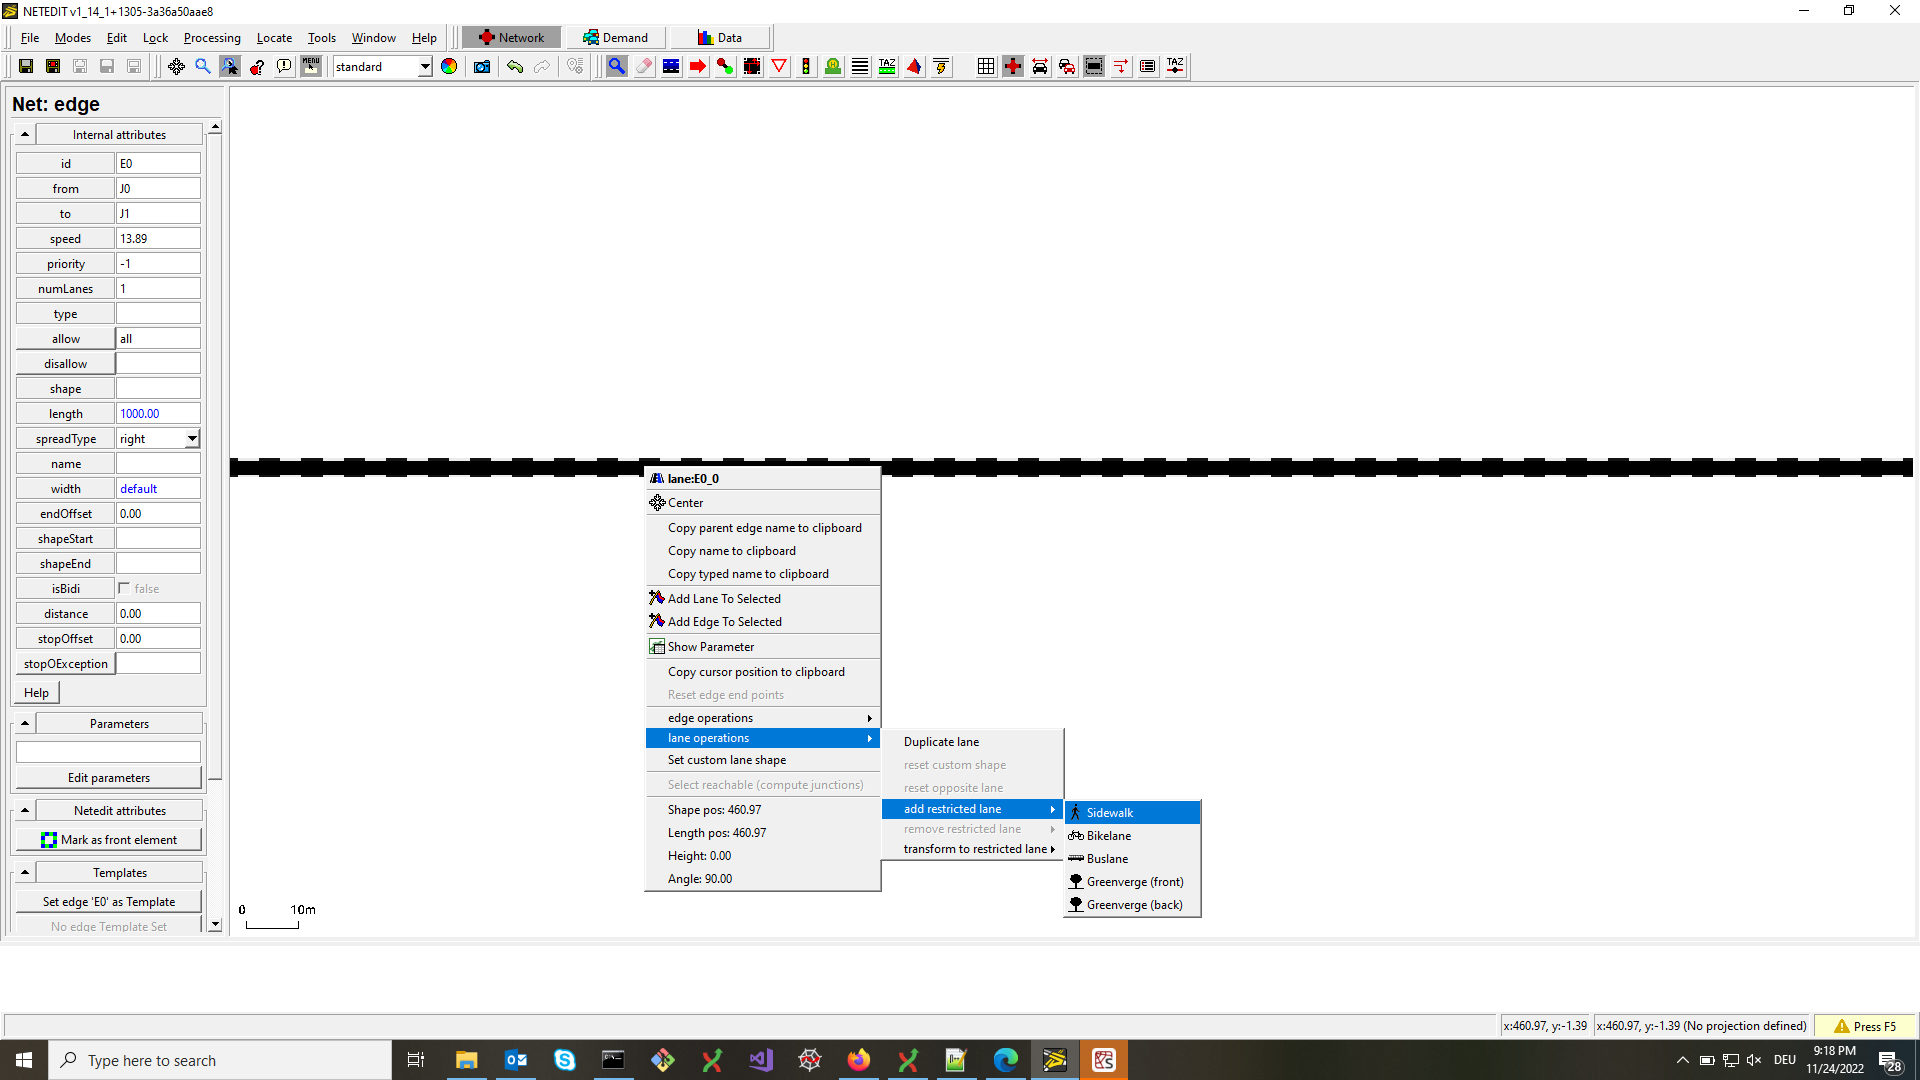
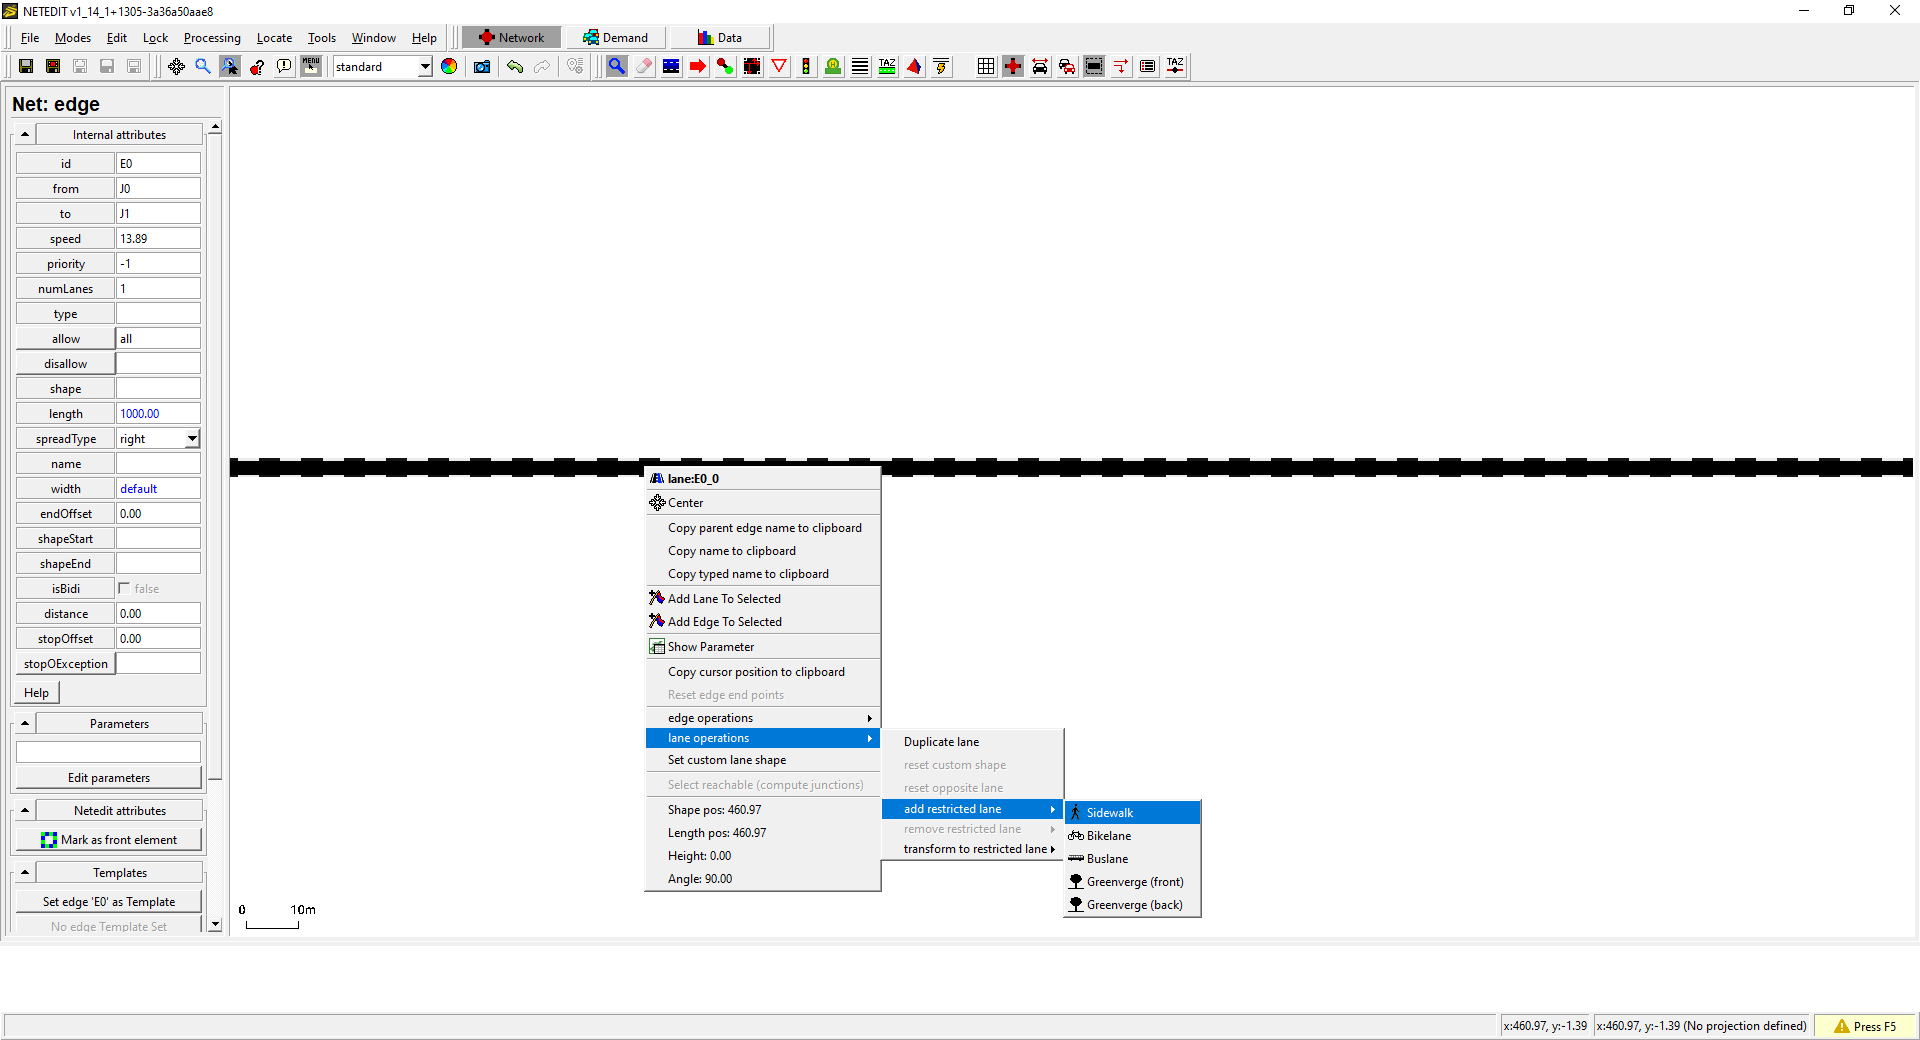
include instructions on saving sumocfg files from netedit - closes #10962

Changed region(s): [[0.0, 0.0, 1.0, 0.8923], [0.0, 0.9231, 1.0, 1.0]]

diff --git a/docs/web/docs/Tutorials/SUMOlympics.md b/docs/web/docs/Tutorials/SUMOlympics.md
@@ -2,12 +2,12 @@
 title: SUMOlympics
 ---
 
-This tutorial sets up a competition (a collective 100 meter sprint) for
-different traffic modes. You will learn how to create special lanes and
-(very simple) traffic lights in [netedit](../Netedit/index.md), use different vehicle classes
-to define vehicle types and create flows for the different
-types. All files can also be found in the {{SUMO}}/docs/tutorial/sumolympics
-directory.
+This tutorial sets up a competition (a collective 100-meter sprint) for
+different modes of transportation. You will learn how to create special-purpose lanes and
+(very simple) traffic lights in [netedit](../Netedit/index.md), use vehicle classes
+to define vehicle types, and create flows for those
+types. All files are also available in the {{SUMO}}/docs/tutorial/sumolympics/data
+directory. Alternatively, you can download them using our [online test extraction tool](https://sumo.dlr.de/extractTest.php) by clicking [here](https://sumo.dlr.de/extractTest.php?path=/tests/complex/tutorial/sumolympics/).
 
 This tutorial is a reconstruction of a [VISSIM Scenario devised
 by the PTV Group](https://www.youtube.com/watch?v=IpaNLxrtHOs).
@@ -16,34 +16,30 @@ by the PTV Group](https://www.youtube.com/watch?v=IpaNLxrtHOs).
 
 <img src="../images/sumolympics_netedit_1.PNG" width="1000"/>
 
-Open netedit and create a new network and add a single
-edge by pressing <kbd>e</kbd> for entering the edge creation mode and clicking on
-two different locations in the editing area. Change to the inspection mode
-(press <kbd>i</kbd>) and click on the starting point of the edge (at the location
-of your first click). Now enter `0,0` in the textfield labeled `pos` in
-the inspector panel on the left (see figure). Do the same for the edge's
+Open netedit, create a new network, and add a single edge. Press <kbd>E</kbd> to enter edge creation mode, then click two different locations in the editing area. Switch to the inspection mode by pressing <kbd>I</kbd> then click on the starting point of the edge (the location
+of your first click). In the inspector panel on the left, enter `0,0` in the text field labeled `pos` (see figure). Do the same for the edge's
 endpoint, setting its position to `1000,0`. Now save your network under
-the name `sumolympics.net.xml` (press <kbd>Ctrl</kbd> + <kbd>Shift</kbd> + <kbd>S</kbd>).
+the name `sumolympics.net.xml` (press <kbd>Ctrl</kbd> + <kbd>S</kbd>).
 
-Now we have a long road, which will be the stage of our competition. The
+We now have a long road that will serve as the stage for our competition. The
 participants in the competition will be transportation modes, i.e.,
-buses, trams, bicycles, passenger cars, and feet. They should travel on
+buses, trams, bicycles, passenger cars, and pedestrians. They should travel on
 different lanes side-by-side. Thus, we have to add lanes for each mode.
-To do so, right-click on the edge and hover over "add restricted lane"
-in the context menu. This will show you three choices for the creation
-of special purpose lanes: Sidewalk, bike lane, and Bus lane. Add one lane
+To do so, right-click on the edge and hover over "Lane operations" > "Add restricted lane"
+in the context menu. This will show you some options for the creation
+of special purpose lanes: Sidewalk, Bike lane, and Bus lane. Add one lane
 for each type.
 
 <img src="../images/sumolympics_netedit_2.png" width="1000"/>
 
 To create a tram, we add a new lane by clicking on "Duplicate lane" in
 the same context menu. For that lane, we have to restrict the allowed
-vehicle class to trams. To do this, first uncheck the "select edges"-box
-just right of the edit mode dropdown menu in the toolbar (the mode
-should still be set to "(i)Inspect"). Then click on the newly created
-lane and on the button "allow" in the inspector panel. This opens a
+vehicle class to only trams. To do this, first enable the "Clicking should target lanes"-option
+in the Edit menu (![Image:icon_checkbox_selectededges.png](../images/icon_checkbox_selectededges.png "Image:icon_checkbox_selectededges.png")).
+Make sure to be in the Inspect mode ![Image:icon_modeinspect.png](../images/icon_modeinspect.png "Image:icon_modeinspect.png") (<kbd>I</kbd>). Then click on the newly created
+lane and on the "allow"-button in the inspector panel. This opens a
 dialog with check boxes for all possible vehicle classes. Uncheck all
-but "rail_urban" and click on "accept". Now edit the allowances for the
+but "rail_urban" and click on "Accept". Now edit the allowances for the
 remaining lane (it is currently allowed for all vehicle classes) and
 reserve it to the class "passenger" (i.e. passenger
 cars). Also for the bicycle lane, we need to modify its width in order to
@@ -53,7 +49,7 @@ inspect mode, change its width to 2.1 meters in the left panel.
 <img src="../images/sumolympics_netedit_3.png" width="1000"/>
 
 Now let us split the edge to create a starting point for the
-competitors: Right-click anywhere on the edge and select "Split edge
+competitors: Right-click anywhere on the edge and select "Edge operations" > "Split edge
 here" from the context menu. Then click on the created node (in SUMO
 terminology this is already a _junction_). Set its x-coordinate to 900
 and its y-coordinate to 0 in the `pos`-field just as you did above when
@@ -65,7 +61,7 @@ network (<kbd>Ctrl</kbd> + <kbd>S</kbd>).
 
 # Defining the competing vehicles (types and flows)
 
-As a next step, we define the competing vehicle types as well as a several of these vehicles, organized as _flows_.
+As a next step, we define the competing vehicle types as well as a several of these vehicles, organized as _flows_. This can be done [manually creating xml files](#using_xml), or [using the netedit gui](#using_netedit).
 
 ## Using XML
 
@@ -106,20 +102,33 @@ section [Flow Definitions](../Demand/Shortest_or_Optimal_Path_Routing.md#flow_de
 
 ## Using netedit
 
-We created the vehicle types and the vehicle flows "by hand", by writing the definitions down into a XML file, however these manipulations can directly be made (and visualized) in netedit! In order to achieve this, you need to select the "Demand" mode rather than the "Network" mode that you used to create the network above. For creating a new vehicle type use the "Create type mode". You can modify the main parameters directly in the left panel, other parameters can be modified after clicking "Open attributes editor", as shown here:
+We created the vehicle types and the vehicle flows "by hand", by writing the definitions down into a XML file, however these manipulations can directly be made (and visualized) in netedit! In order to achieve this, you need to select the "Demand" supermode (<kbd>F3</kbd>) rather than the "Network" (<kbd>F2</kbd>) supermode that you used to create the network above. For creating a new vehicle type use the "Create type mode" (<kbd>T</kbd>). You can modify the main parameters directly in the left panel, other parameters can be modified after clicking "Open attributes editor", as shown here:
 
 <img src="../images/sumolympics_netedit_5.png" width="1000"/>
 
-Now concerning the creation of motorized flows, you need to use the "Create vehicle mode". Then at the top of the left panel, you can create an individual vehicle or a flow, with different options. There select "flow (from-to edges)". You can then use a particular vehicle type, change the `departPos` attribute and the number of vehicles you want. Then select the start and end edges directly on the network and when everything has been set, click on "Finish route creation" on the left panel to create the route and the flow.
+Now concerning the creation of motorized flows, you need to use the "Create vehicle mode" (<kbd>V</kbd>). Then at the top of the left panel, you can create an individual vehicle or a flow, with different options. There select "flow (from-to edges)". You can then use a particular vehicle type, change the `departPos` attribute and the number of vehicles you want. Then select the start and end edges directly on the network and when everything has been set, click on "Finish route creation" on the left panel to create the route and the flow.
 
 <img src="../images/sumolympics_netedit_6.png" width="1000"/>
 
 The cyan color is used to represent the start edge whereas the light green color is used for the chosen end edge. A small vehicle will be added at the starting position of the flow to materialize it inside the GUI. You can also check that the flow was created by using "Locate > Vehicles" of the netedit main menu. Person flows are created in a similar manner, but you need to use the dedicated "Create person mode" instead.
 
-## A first simulation
+Finally, save the demand file as `sumolympics.rou.xml` by pressing <kbd>Ctrl</kbd> + <kbd>Shift</kbd> + <kbd>D</kbd>, or using `File` > `Demand Elements` > `Save Demand Elements`
 
-Finally, to prepare the simulation, create a SUMO configuration file (name it
-`sumolympics.sumocfg`):
+# A first simulation
+
+In order to run a simulation, we need a SUMO configuration file. This is a file ending in .sumocfg, that specifies the network and demand files to be used in the simulation, among with other options and additional files.
+You can create / save a sumoconfig directly from netedit, by pressing <kbd>Ctrl</kbd> + <kbd>Shift</kbd> + <kbd>S</kbd>, or going to `File` > `Sumo Config` > `Save Sumo config`. Save it as `sumolympics.sumocfg`.
+
+For this example, we need to specify a different lateral resolution than the default for the simulation (a value
+corresponding to the sub-lane width in meters to achieve a more
+realistic behavior of bicyclists utilizing the whole lane width to
+overtake each other - see [Sublane
+Model](../Simulation/SublaneModel.md) and [Bicycle
+simulation](../Simulation/Bicycles.md)). In netedit, go to `Processing` > `Sumo options` (or <kbd>Shift</kbd> + <kbd>F10</kbd>) and search for `lateral-resolution` in the new dialog. Change the value from the default -1 (meaning that all vehicles should drive at the center of their lane) to 1.
+
+---
+
+It is also possible to manually define the config file. Just create a xml text file (saved as `sumolympics.sumocfg`), with the following content:
 
 ```xml
 <configuration>
@@ -133,14 +142,11 @@ Finally, to prepare the simulation, create a SUMO configuration file (name it
 </configuration>
 ```
 
-Here we give the processing argument `lateral-resolution` with a value
-corresponding to the sub-lane width in meters to achieve a more
-realistic behavior of bicyclists utilizing the whole lane width to
-overtake each other (see [Sublane
-Model](../Simulation/SublaneModel.md) and [Bicycle
-simulation](../Simulation/Bicycles.md)). Start the simulation by
+---
+
+Finally, start the simulation by
 double-clicking on the configuration file `sumolympics.sumocfg`
-(Windows), opening SUMO GUI, or running `sumo-gui -c sumolympics.sumocfg` from a terminal.
+(on Windows), opening sumo-gui, or running `sumo-gui -c sumolympics.sumocfg` from a terminal.
 Adjust the step delay to 100 ms and press the run button
 (![Image:icon_play.png](../images/icon_play.png "Image:icon_play.png")).
 
@@ -157,18 +163,16 @@ lane width).
 <img src="../images/sumolympics_netedit_4.png" width="1000"/>
 
 First we create a traffic light on the
-junction between the edges "beg" and "end" with netedit: Press <kbd>t</kbd> to
+junction between the edges "beg" and "end" with netedit: Press <kbd>T</kbd> to
 enter the traffic light editing mode. Click on the junction, then on
-"Create TLS" in the left panel. Below, under the label phases, type
+"Create TLS" in the left panel. Under the phases label, enter
 "rrrrr" for the first phase ("r" for red) and set its duration to 100
-(secs.). This will give enough time for the bicyclists to group more
-densely. For the second phase enter "GGGGG" (yes, "G" for green) and set
-its duration to 1000 (i.e. until the end of the simulation run). Now run
+(secs.). This will give the bicyclists enough time to form a denser group. For the second phase enter "GGGGG" (yes, "G" for green) and set
+its duration to 1000 (i.e. until the end of the simulation run). Note that the number of "r" and "G" characters must be the same and must correspond to the total number of lanes. Now run
 the simulation again to see the bikes outrun the cars. See? We should
 all use our bikes more often!
 
-If you have noticed a warning (like "Warning: Missing yellow phase in
-tlLogic 'gneJ2', program '0' for tl-index 0 when switching to phase 0")
+If you have noticed a warning (like `Warning: Missing yellow phase in tlLogic 'gneJ2', program '0' for tl-index 0 when switching to phase 0`)
 in the Message Window, don't worry. SUMO routinely checks tls-phases for
 basic consistency and missing yellow phases may lead to crashes if you
 have intersecting flows. However, this is a special situation and we
